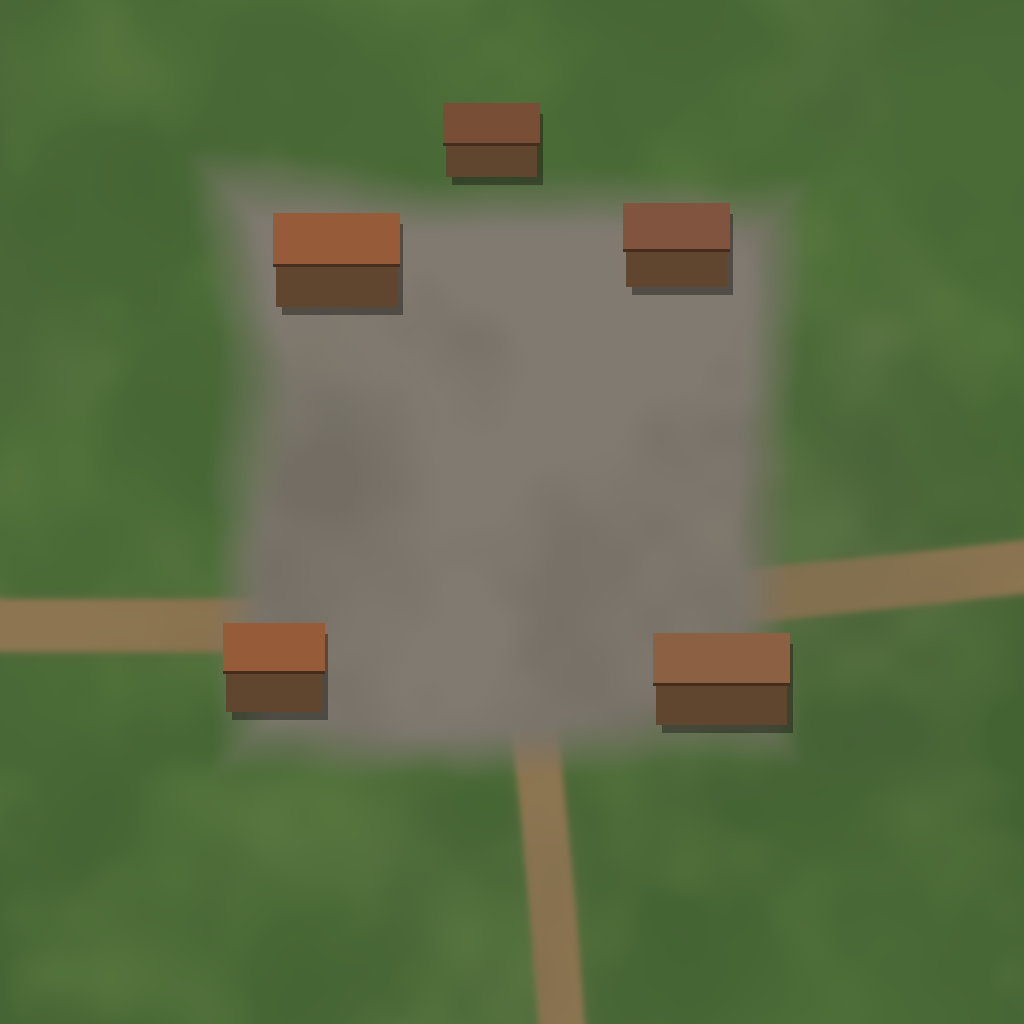
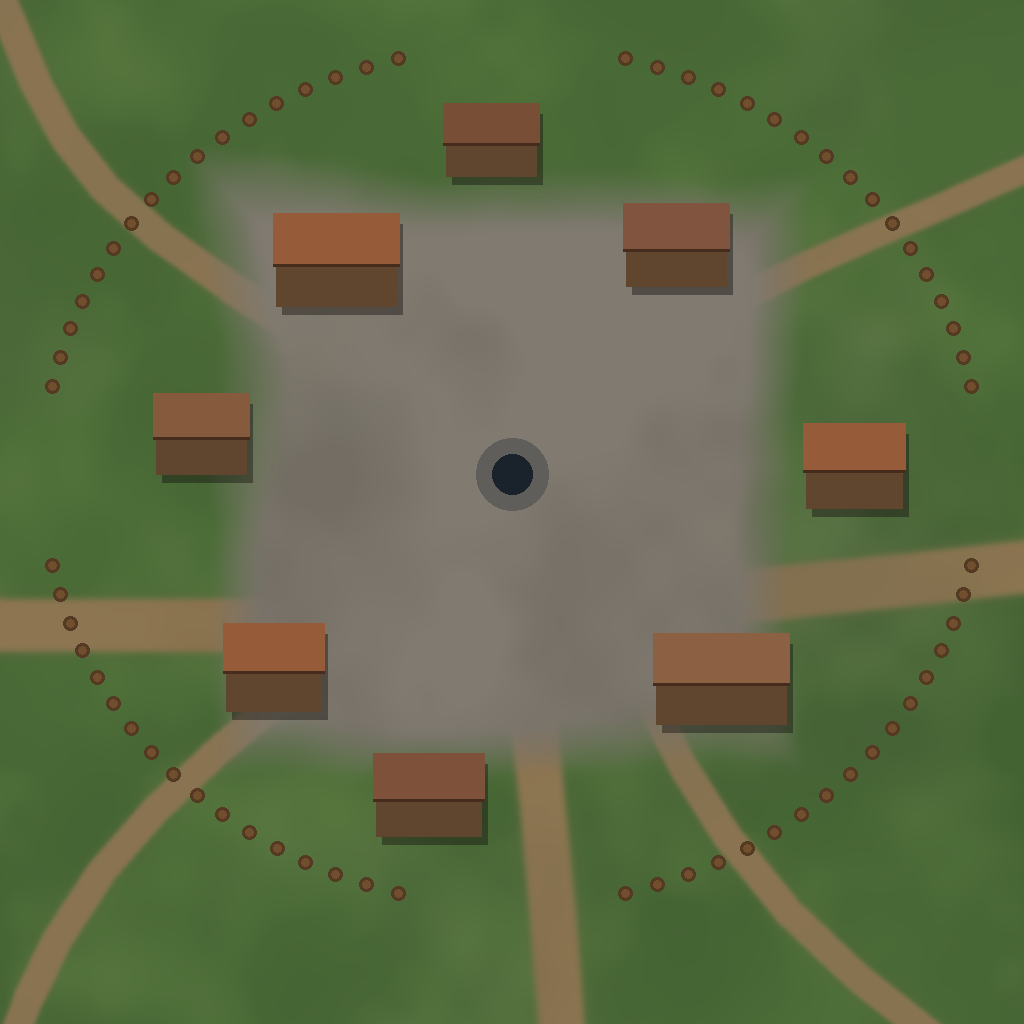
Godot: audit combat (4 bug corretti) + Mondo v2 con i luoghi della campagna
COMBAT — lettura integrale dei moduli, 4 bug reali corretti:
- Attacco dei PG derivato DALLA SCHEDA (prima: +4 e 1d8+2 fissi per tutti):
  bonus = competenza + miglior mod FOR/DES/INT/SAG, danno = dado di classe
  (barbaro 1d12, mago 1d10, chierico 1d6...) + mod; aggiornato anche in
  _sync_pcs_from_characters (level-up a meta' campagna).
- end_combat ora chiama ConditionsManager.reset() e SurfacesManager.reset():
  prima NESSUNO li chiamava e col round riazzerato la scadenza non scattava
  mai (differenza negativa) — condizioni e fiamme fantasma infestavano lo
  scontro successivo. L'elevazione resta (terreno, non effetto).
- remove_combatant sul turno corrente: il turno passa al prossimo VIVO via
  _find_next_living_index (prima poteva incagliarsi su uno sconfitto).
- EnemyAI._cella_libera_verso: i nemici non si accatastano piu' sulla
  stessa cella (accorciano il passo fino alla prima cella libera).
- Specchi Python: attacco da scheda, salto dei morti, anti-sovrapposizione.

MONDO v2 — la mappa diventa un LUOGO:
- sentieri dal villaggio a ogni tappa della campagna (mai sopra l'acqua),
  palizzata con varchi sulle strade + pozzo in piazza + 8 case, cerchio di
  pietre con alone violaceo nella Palude (l'arena del finale), accampamento
  alle Rocce (tende, gabbie vuote, braci), molo e barca sul Lago, rovine di
  torre nei Prati, canneti al Guado, fiori. Stesse 9 tessere/etichette:
  campagna e salvataggi restano compatibili.
[…]

diff --git a/godot/ROADMAP.md b/godot/ROADMAP.md
@@ -133,6 +133,47 @@ Import: **trascina sulla finestra** (mappe) o copia in `user://tokens` / `user:/
 
 ---
 
+## PARTE 4 — Audit "verso il capolavoro" (luglio 2026)
+
+### ✅ Combat system: 4 bug reali TROVATI e CORRETTI (lettura integrale dei moduli)
+1. **La scheda non contava nulla in attacco**: tutti i PG colpivano con +4 e 1d8+2 fissi.
+   Ora bonus = competenza + miglior modificatore (FOR/DES/INT/SAG) e danno = dado della
+   classe (barbaro 1d12, mago 1d10, chierico 1d6…) + modificatore — e si aggiorna al
+   level-up. Un barbaro adesso picchia da barbaro.
+2. **Condizioni e superfici infestavano lo scontro successivo**: nessuno chiamava i
+   `reset()` — col round riazzerato la scadenza non scattava MAI (differenza negativa) e
+   il combattimento nuovo partiva con veleni e fiamme fantasma del precedente. Ora
+   `end_combat()` li pulisce (l'elevazione resta: è terreno, non un effetto).
+3. **Turno assegnato a un morto** dopo la rimozione di un PNG da parte del Master: il
+   giro poteva bloccarsi su un combattente sconfitto. Ora passa al prossimo VIVO.
+4. **I nemici si accatastavano sulla stessa cella**: l'IA ora evita le celle occupate
+   (accorcia il passo fino a trovarne una libera).
+   Tutte le correzioni verificate con specchi Python (attacco da scheda, salto dei
+   morti, anti-sovrapposizione).
+
+### 🗺 Mondo v2: LA mappa giocabile
+Rigenerato il mondo 3×3 come un luogo vero: **sentieri che collegano ogni tappa della
+campagna**, villaggio con palizzata (varchi sulle strade), pozzo in piazza e 8 case,
+**cerchio di pietre con alone violaceo nella Palude Grigia** (l'arena del finale si
+riconosce da lontano), accampamento alle Rocce con tende/gabbie vuote/braci (il racconto
+del capitolo 5 è NEL disegno), molo e barchetta sul Lago Chiaro, rovine di una torre nei
+Prati del Nord, canneti attorno al Guado (l'imboscata "si sente"), fiori nei prati.
+
+### 🎯 Prossimi passi per il capolavoro (in ordine di impatto)
+1. **Attacco a distanza**: portata per arco/incantesimi (oggi tutto è mischia a 1 cella;
+   ranger e mago dovrebbero colpire da lontano, e l'IA arciera tenere la distanza)
+2. **Export eseguibile Windows** (Fase E): giocare con un doppio click, senza editor
+3. **Feedback di colpo**: flash/scossa del token colpito, numeri di danno fluttuanti,
+   suono di dadi e lame — il "game feel" che trasforma un tracker in un gioco
+4. **Tiri salvezza e aree**: palla di fuoco → tiro DES + superficie di fuoco (già pronta)
+5. **IA tattica**: i nemici cercano il fiancheggiamento e l'altura invece di caricare
+6. **Musica e SFX di combattimento** (l'AmbienceManager c'è; mancano gli stinger)
+7. **Multiplayer Supabase** e ruoli Master/giocatore
+8. **Asset "veri" dell'utente**: i render Blender (props/miniature) e i pacchetti
+   Forgotten Adventures in `user://` — la pipeline è già tutta in piedi
+
+---
+
 ## Come continuare lo sviluppo
 
 Ogni sessione con Claude: chiedi una voce della Fase D/E/F, o incolla uno script di
